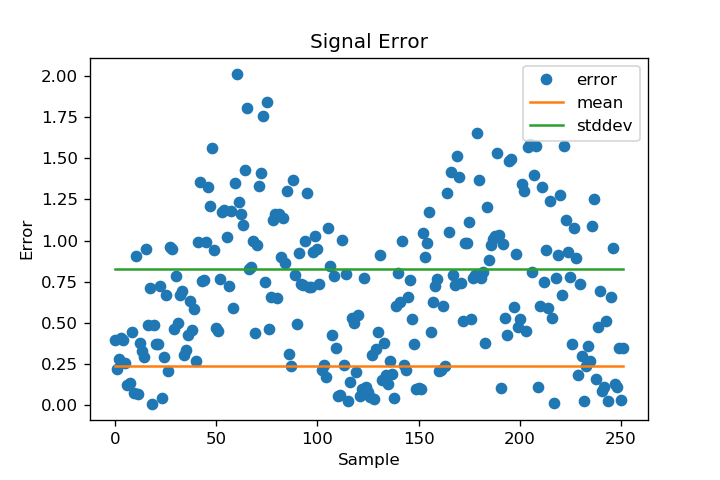
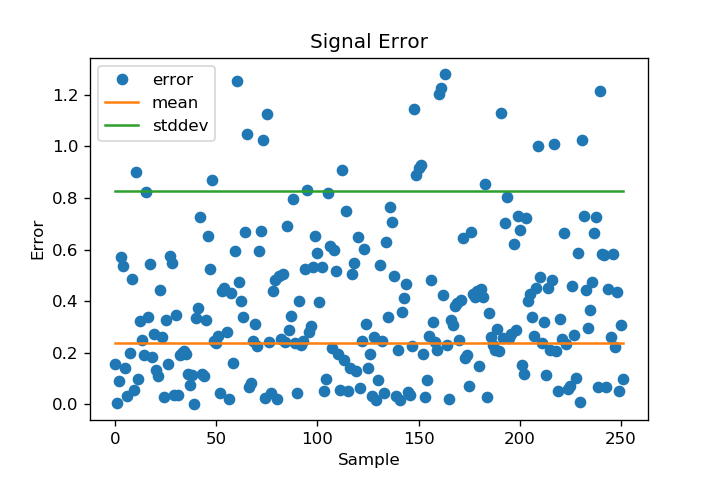
updated ex3 output

diff --git a/gwu/sp19/cs1012/assets/exercises10/exercise3.py b/gwu/sp19/cs1012/assets/exercises10/exercise3.py
@@ -1,0 +1,28 @@
+import matplotlib.pyplot as plt
+import numpy as np
+
+# experimental or sampled values, two columns : time and y value    
+data = np.loadtxt("signaldata.txt")
+
+# expected or desired values
+mu = data[:,1].mean()
+sigma = np.std(data[:,1])
+
+x = np.arange(len(data[:,1]))
+
+# compute error for each sample
+err = np.abs( data[:,1] - np.sin(data[:,0]) )
+
+# plot the error
+plt.plot(x, err, label='error', marker='o', linestyle='None')
+# plot the mean line
+plt.plot((0,x[-1]), (mu,mu), label='mean')
+# plot the stddev line
+plt.plot((0,x[-1]), (sigma,sigma), label='stddev')
+# labeling
+plt.xlabel('Sample')
+plt.ylabel('Error')
+plt.title('Signal Error')
+plt.legend()
+
+plt.savefig("exercise3.png", dpi=120)
